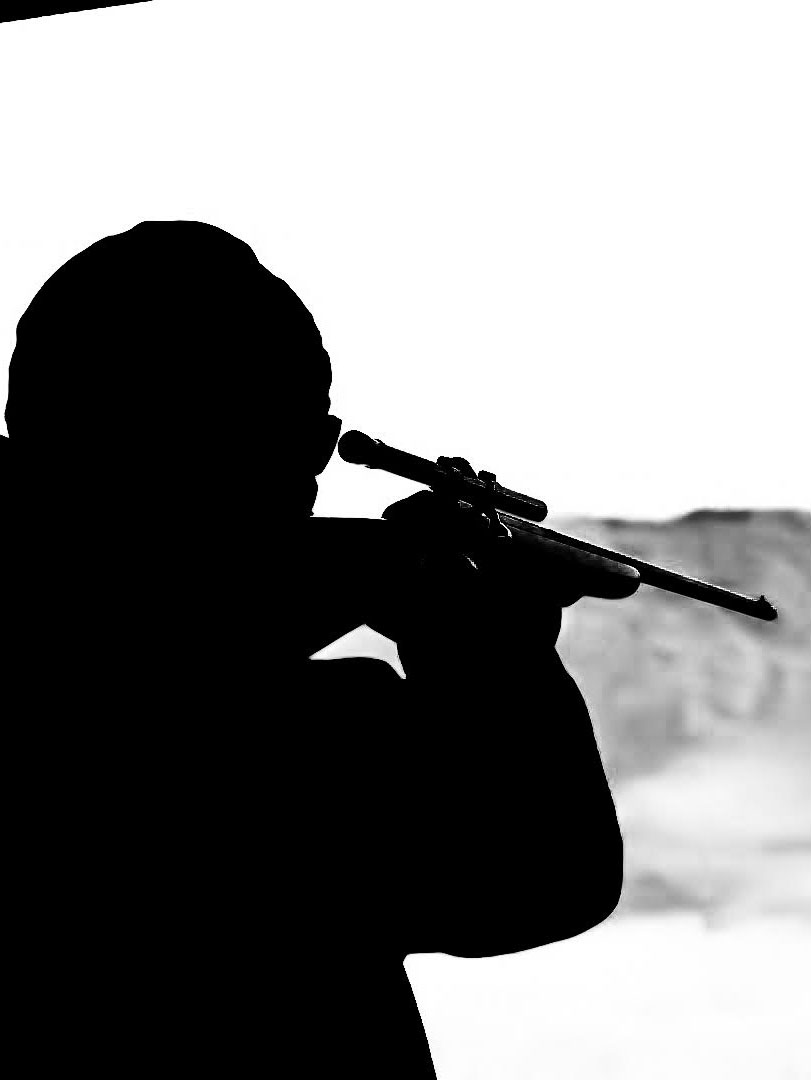
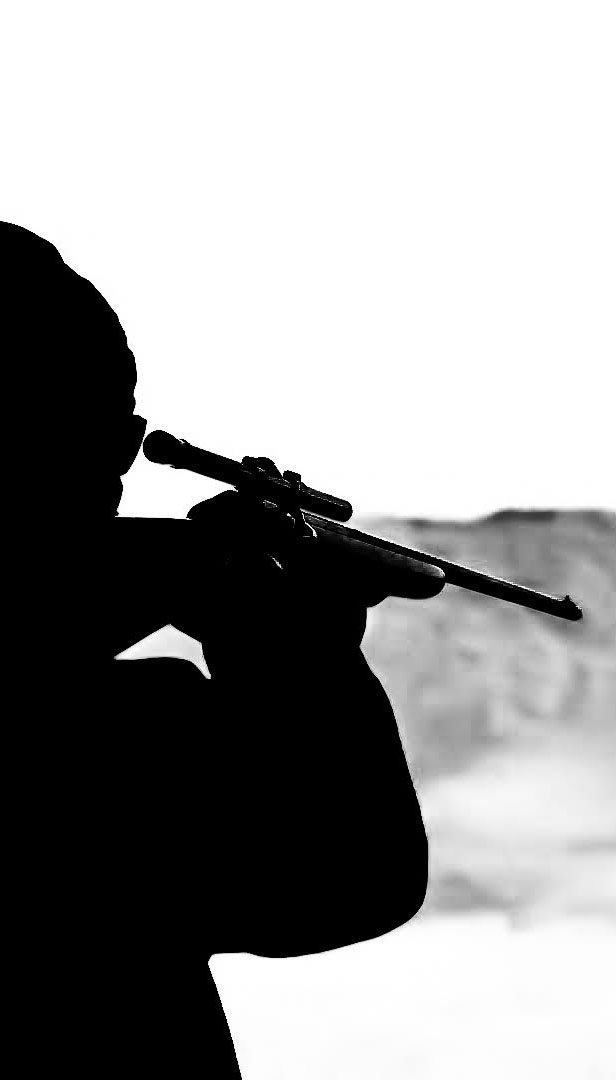
the landing page should be appearing correctly on mobile devices

diff --git a/public/css/index.css b/public/css/index.css
@@ -10,7 +10,7 @@ body {
 .page-background {
   background: url('../images/li-background-test5.jpg') no-repeat;
   background-position: 50% 50%;
-  background-size: cover;
+  /* background-size: cover; */
   box-shadow: 0 0 100px 20px black inset;
   height: 100vh;
   position: absolute;
@@ -122,6 +122,7 @@ body {
 
   .page-background {
     background: url('../images/li-background-test5-mobile.jpg') no-repeat;
+    height: 800px;
   }
 
   .training-infographic {
